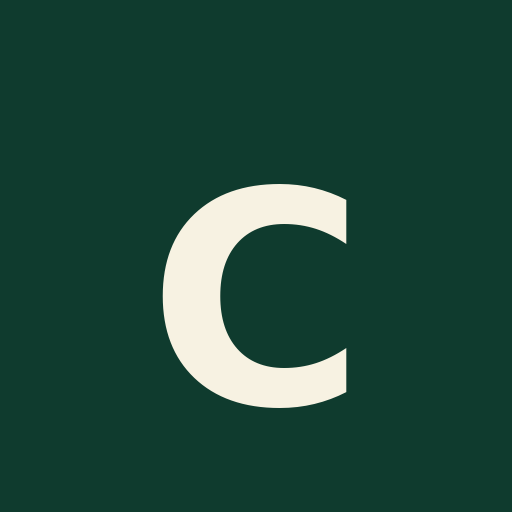
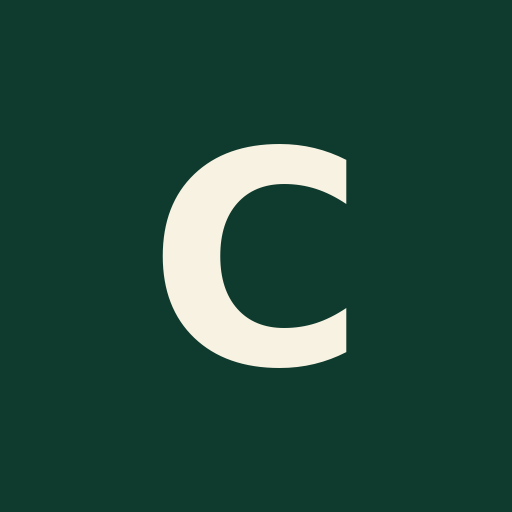
Add files via upload

Changed region(s): [[0.3125, 0.2812, 0.6875, 0.8125]]

diff --git a/index.html b/index.html
@@ -201,7 +201,7 @@
   .report-table{width:100%; border-collapse:collapse; font-size:12px; margin-bottom:6px;}
   .report-table th{text-align:left; font-size:10px; text-transform:uppercase; color:#8A7458; padding:4px 6px; border-bottom:1px solid #DDD2C0;}
   .report-table td{padding:4px 6px; border-bottom:1px solid #EDE6D8;}
-  .report-table td.rl{color:#8A7458; width:40%;}
+  .report-table td.rl{color:#8A7458; width:45%;}
   .report-line{font-size:12px; margin-top:6px; line-height:1.5;}
   .report-score-section{text-align:center;}
   .report-total-label{font-size:10.5px; letter-spacing:0.1em; text-transform:uppercase; color:#8A7458;}
@@ -218,21 +218,33 @@
   .report-footer{text-align:center; font-size:10px; color:#B0A48E; margin-top:16px;}
   .report-empty{text-align:center; padding:40px 20px; color:#8A7458; font-size:13px;}
 
+  .report-page{ }
+  .report-page + .report-page{ margin-top:26px; padding-top:22px; border-top:2px dashed #D6C8A3; position:relative; }
+  .report-page + .report-page::before{ content:'TRANG 2'; position:absolute; top:-11px; left:50%; transform:translateX(-50%); background:#F7F3EC; padding:0 10px; font-size:9px; letter-spacing:0.1em; color:#8A7458; font-family:var(--font-display); font-weight:700; }
   @media print{
-    @page{ margin:12mm; }
+    @page{ margin:16mm; size:A4; }
+    *{ -webkit-print-color-adjust:exact !important; print-color-adjust:exact !important; color-adjust:exact !important; }
     body{ background:#fff !important; }
     body *{ visibility:hidden !important; }
     #printReportOuter, #printReportOuter *{ visibility:visible !important; }
     #printReportOuter{ position:absolute; left:0; top:0; width:100%; margin:0; }
-    .report-paper{ box-shadow:none; border-radius:0; background:#fff; }
+    .report-page{ page-break-after:always; break-after:page; }
+    .report-page:last-child{ page-break-after:auto; break-after:auto; }
+    .report-page + .report-page{ margin-top:0; padding-top:0; border-top:none; }
+    .report-page + .report-page::before{ display:none; }
+    .report-paper{ padding:26px; font-size:12.5px; }
+    .report-header{ padding-bottom:12px; margin-bottom:12px; }
+    .report-title{ font-size:24px; margin-top:4px; }
+    .report-meta-table{ margin-top:9px; font-size:12px; }
+    .report-meta-table td{ padding:3px 6px; }
+    .report-section{ margin-bottom:14px; }
+    .report-section-title{ font-size:13px; padding-bottom:4px; margin-bottom:8px; }
+    .report-table{ font-size:12px; margin-bottom:6px; }
+    .report-table th, .report-table td{ padding:5px 6px; }
+    .report-line{ font-size:12px; margin-top:5px; line-height:1.5; }
   }
 </style>
-
-<link rel="manifest" href="manifest.json">
-<link rel="apple-touch-icon" href="icon-192.png">
-<meta name="mobile-web-app-capable" content="yes">
-<meta name="format-detection" content="telephone=no">
-
+<link rel="manifest" href="manifest.json"><link rel="apple-touch-icon" href="icon-192.png">
 </head>
 <body>
 
@@ -271,14 +283,14 @@
     </div>
 
     <div class="tabbar" id="tabbar">
-      <div class="tab active" data-tab="physical"><span data-i18n="tabPhysical">VẬT LÝ</span><span class="dot"></span></div>
+      <div class="tab active" data-tab="extrinsic"><span data-i18n="tabExtrinsic">THÔNG TIN MẪU</span><span class="dot"></span></div>
+      <div class="tab" data-tab="physical"><span data-i18n="tabPhysical">VẬT LÝ</span><span class="dot"></span></div>
       <div class="tab" data-tab="descriptive"><span data-i18n="tabDescriptive">MÔ TẢ</span><span class="dot"></span></div>
-      <div class="tab" data-tab="extrinsic"><span data-i18n="tabExtrinsic">NGOẠI LAI</span><span class="dot"></span></div>
     </div>
 
-    <div class="panel active" id="panel-physical"></div>
+    <div class="panel active" id="panel-extrinsic"></div>
+    <div class="panel" id="panel-physical"></div>
     <div class="panel" id="panel-descriptive"></div>
-    <div class="panel" id="panel-extrinsic"></div>
 
     <div class="actions">
       <button class="btn btn-primary" id="saveProfileBtn" data-i18n="actionsSaveProfile">Lưu hồ sơ này</button>
@@ -396,7 +408,7 @@
       areaProfiles: 'Hồ sơ mẫu', areaCupping: 'Thử nếm', areaReport: 'Báo cáo',
       metaDate: 'Ngày', metaCupper: 'Người chấm / Cupper', metaCupperPh: 'Tên của bạn',
       metaPurpose: 'Mục đích / Purpose', metaPurposePh: 'VD: Kiểm định lô hàng, QC...',
-      tabPhysical: 'VẬT LÝ', tabDescriptive: 'MÔ TẢ', tabExtrinsic: 'THÔNG TIN KHÁC',
+      tabPhysical: 'VẬT LÝ', tabDescriptive: 'MÔ TẢ', tabExtrinsic: 'THÔNG TIN MẪU',
       profileSwitcherTitle: 'Danh sách hồ sơ mẫu', profileAddBtn: '+ Thêm hồ sơ mẫu mới', profileSamplePh: 'Tên/Số mẫu',
       actionsSaveProfile: 'Lưu hồ sơ này', profileHistoryTitle: 'Lịch sử hồ sơ mẫu', profileEmptyHistory: 'Chưa có hồ sơ nào được lưu.',
       guideLabel: 'Hướng dẫn',
@@ -586,7 +598,7 @@
 
   let sessionState = makeSessionState();
   let currentArea = 'profiles';
-  let currentTab = 'physical';
+  let currentTab = 'extrinsic';
 
   const $ = sel => document.querySelector(sel);
   const cupIconSvg = '<svg viewBox="0 0 24 24" fill="none" stroke="currentColor" stroke-width="2" stroke-linecap="round" stroke-linejoin="round"><path d="M3 8h13a3 3 0 0 1 0 6h-1"/><path d="M3 8v7a3 3 0 0 0 3 3h6a3 3 0 0 0 3-3V8"/><line x1="6" y1="2" x2="6" y2="4"/><line x1="10" y1="1" x2="10" y2="4"/><line x1="14" y1="2" x2="14" y2="4"/></svg>';
@@ -1434,7 +1446,7 @@
         ${reportRow(t('physicalMoistureLabel'), p.moisture ? p.moisture+'%' : '')}
         ${reportRow(t('physicalNotesTitle'), p.notes)}
       </table>
-      ${sieveRows ? `<table class="report-table"><tr><th>Screen</th><th>Weight</th></tr>${sieveRows}</table>` : ''}
+      ${sieveRows ? `<table class="report-table"><tr><th style="width:45%">Screen</th><th>Weight</th></tr>${sieveRows}</table>` : ''}
     </div>`;
   }
 
@@ -1448,7 +1460,7 @@
     return `<div class="report-section">
       <div class="report-section-title">${t('tabDescriptive')}</div>
       ${d.roastLevel?`<div class="report-line"><b>${t('descRoastLabel')}:</b> ${escapeHtml(d.roastLevel)}</div>`:''}
-      <table class="report-table"><tr><th>Section</th><th>Intensity</th><th>Descriptors</th></tr>${rows}</table>
+      <table class="report-table"><tr><th style="width:30%">Section</th><th style="width:20%">Intensity</th><th>Descriptors</th></tr>${rows}</table>
       ${d.mainTastes&&d.mainTastes.length?`<div class="report-line"><b>Main Tastes:</b> ${escapeHtml(d.mainTastes.join(', '))}</div>`:''}
       ${d.acidityNotes?`<div class="report-line"><b>Acidity:</b> ${escapeHtml(d.acidityNotes)}</div>`:''}
       ${d.sweetnessNotes?`<div class="report-line"><b>Sweetness:</b> ${escapeHtml(d.sweetnessNotes)}</div>`:''}
@@ -1534,7 +1546,7 @@
   function buildReportHtml(profile, sample){
     if(!profile){ return `<div class="report-empty">${t('reportEmptyHint')}</div>`; }
     const meta = profile.meta || {};
-    return `
+    const page1 = `
       <div class="report-header">
         <div class="report-brand">SCA Coffee Value Assessment</div>
         <div class="report-title">${escapeHtml(meta.sampleNo || t('historyNoName'))}</div>
@@ -1544,12 +1556,15 @@
           ${reportRow(t('metaPurpose'), meta.purpose)}
         </table>
       </div>
+      ${buildExtrinsicReportHtml(profile.extrinsic)}
       ${buildPhysicalReportHtml(profile.physical)}
       ${buildDescriptiveReportHtml(profile.descriptive)}
+    `;
+    const page2 = `
       ${buildAffectiveReportHtml(sample)}
-      ${buildExtrinsicReportHtml(profile.extrinsic)}
       <div class="report-footer">${t('reportGenerated')} ${new Date().toLocaleString()}</div>
     `;
+    return `<div class="report-page">${page1}</div><div class="report-page">${page2}</div>`;
   }
 
   function renderReportPreview(){
@@ -1695,14 +1710,6 @@
 })();
 </script>
 
-
-<script>
-if ('serviceWorker' in navigator) {
-  window.addEventListener('load', () => {
-    navigator.serviceWorker.register('./sw.js').catch(console.error);
-  });
-}
-</script>
-
+<script>if('serviceWorker' in navigator){navigator.serviceWorker.register('./sw.js')}</script>
 </body>
 </html>

diff --git a/sw.js b/sw.js
@@ -1,49 +1,1 @@
-const CACHE_NAME = 'cva-pwa-v4';
-const APP_SHELL = [
-  './',
-  './index.html',
-  './manifest.json',
-  './icon-192.png',
-  './icon-512.png'
-];
-
-self.addEventListener('install', event => {
-  self.skipWaiting();
-  event.waitUntil(caches.open(CACHE_NAME).then(cache => cache.addAll(APP_SHELL)));
-});
-
-self.addEventListener('activate', event => {
-  event.waitUntil(
-    caches.keys().then(keys =>
-      Promise.all(keys.filter(key => key !== CACHE_NAME).map(key => caches.delete(key)))
-    ).then(() => self.clients.claim())
-  );
-});
-
-self.addEventListener('fetch', event => {
-  const request = event.request;
-  if (request.method !== 'GET') return;
-
-  if (request.mode === 'navigate') {
-    event.respondWith(
-      fetch(request)
-        .then(response => {
-          const copy = response.clone();
-          caches.open(CACHE_NAME).then(cache => cache.put('./index.html', copy));
-          return response;
-        })
-        .catch(() => caches.match('./index.html'))
-    );
-    return;
-  }
-
-  event.respondWith(
-    caches.match(request).then(cached =>
-      cached || fetch(request).then(response => {
-        const copy = response.clone();
-        caches.open(CACHE_NAME).then(cache => cache.put(request, copy));
-        return response;
-      })
-    )
-  );
-});
+const C='cva-v6',F=['./','./index.html','./manifest.json','./icon-192.png','./icon-512.png'];self.addEventListener('install',e=>{self.skipWaiting();e.waitUntil(caches.open(C).then(c=>c.addAll(F)))});self.addEventListener('activate',e=>e.waitUntil(caches.keys().then(k=>Promise.all(k.filter(x=>x!==C).map(x=>caches.delete(x)))).then(()=>self.clients.claim()));self.addEventListener('fetch',e=>{if(e.request.method==='GET')e.respondWith(fetch(e.request).then(r=>{let x=r.clone();caches.open(C).then(c=>c.put(e.request,x));return r}).catch(()=>caches.match(e.request).then(r=>r||caches.match('./index.html'))))});